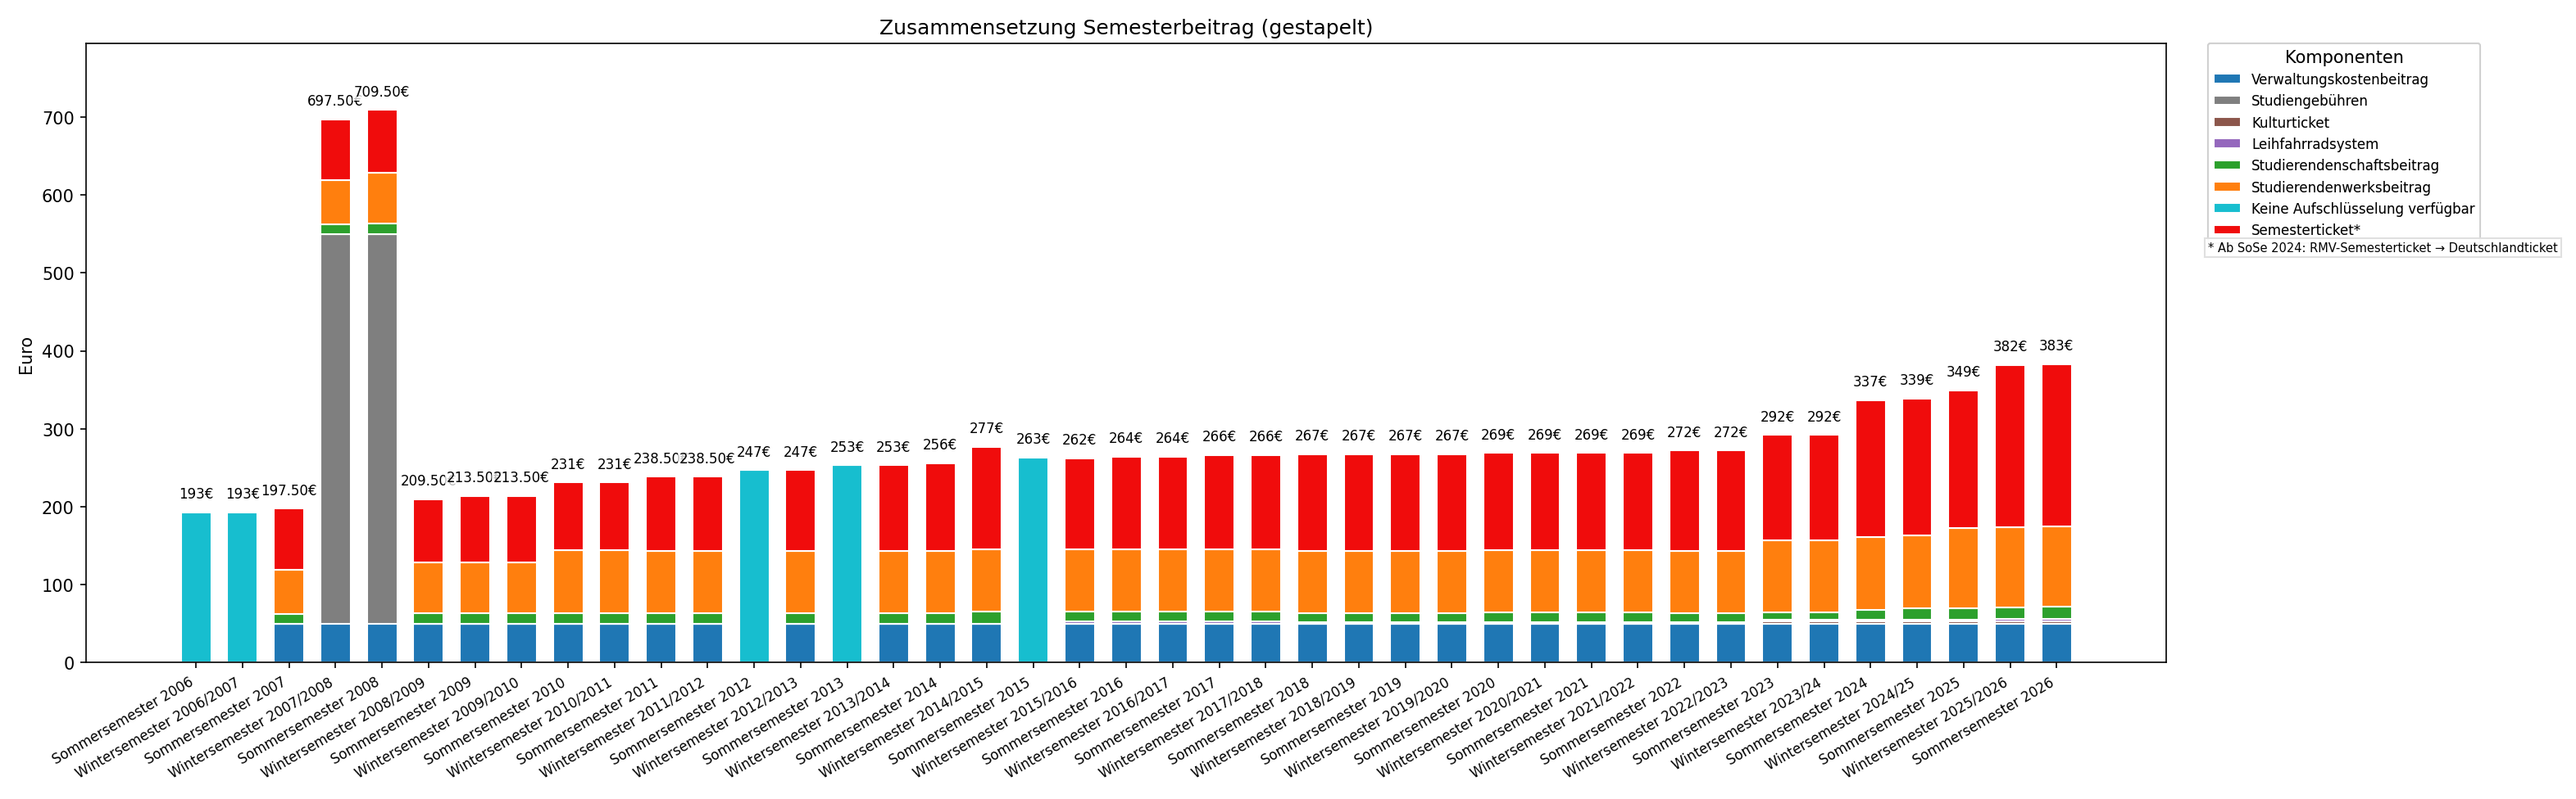
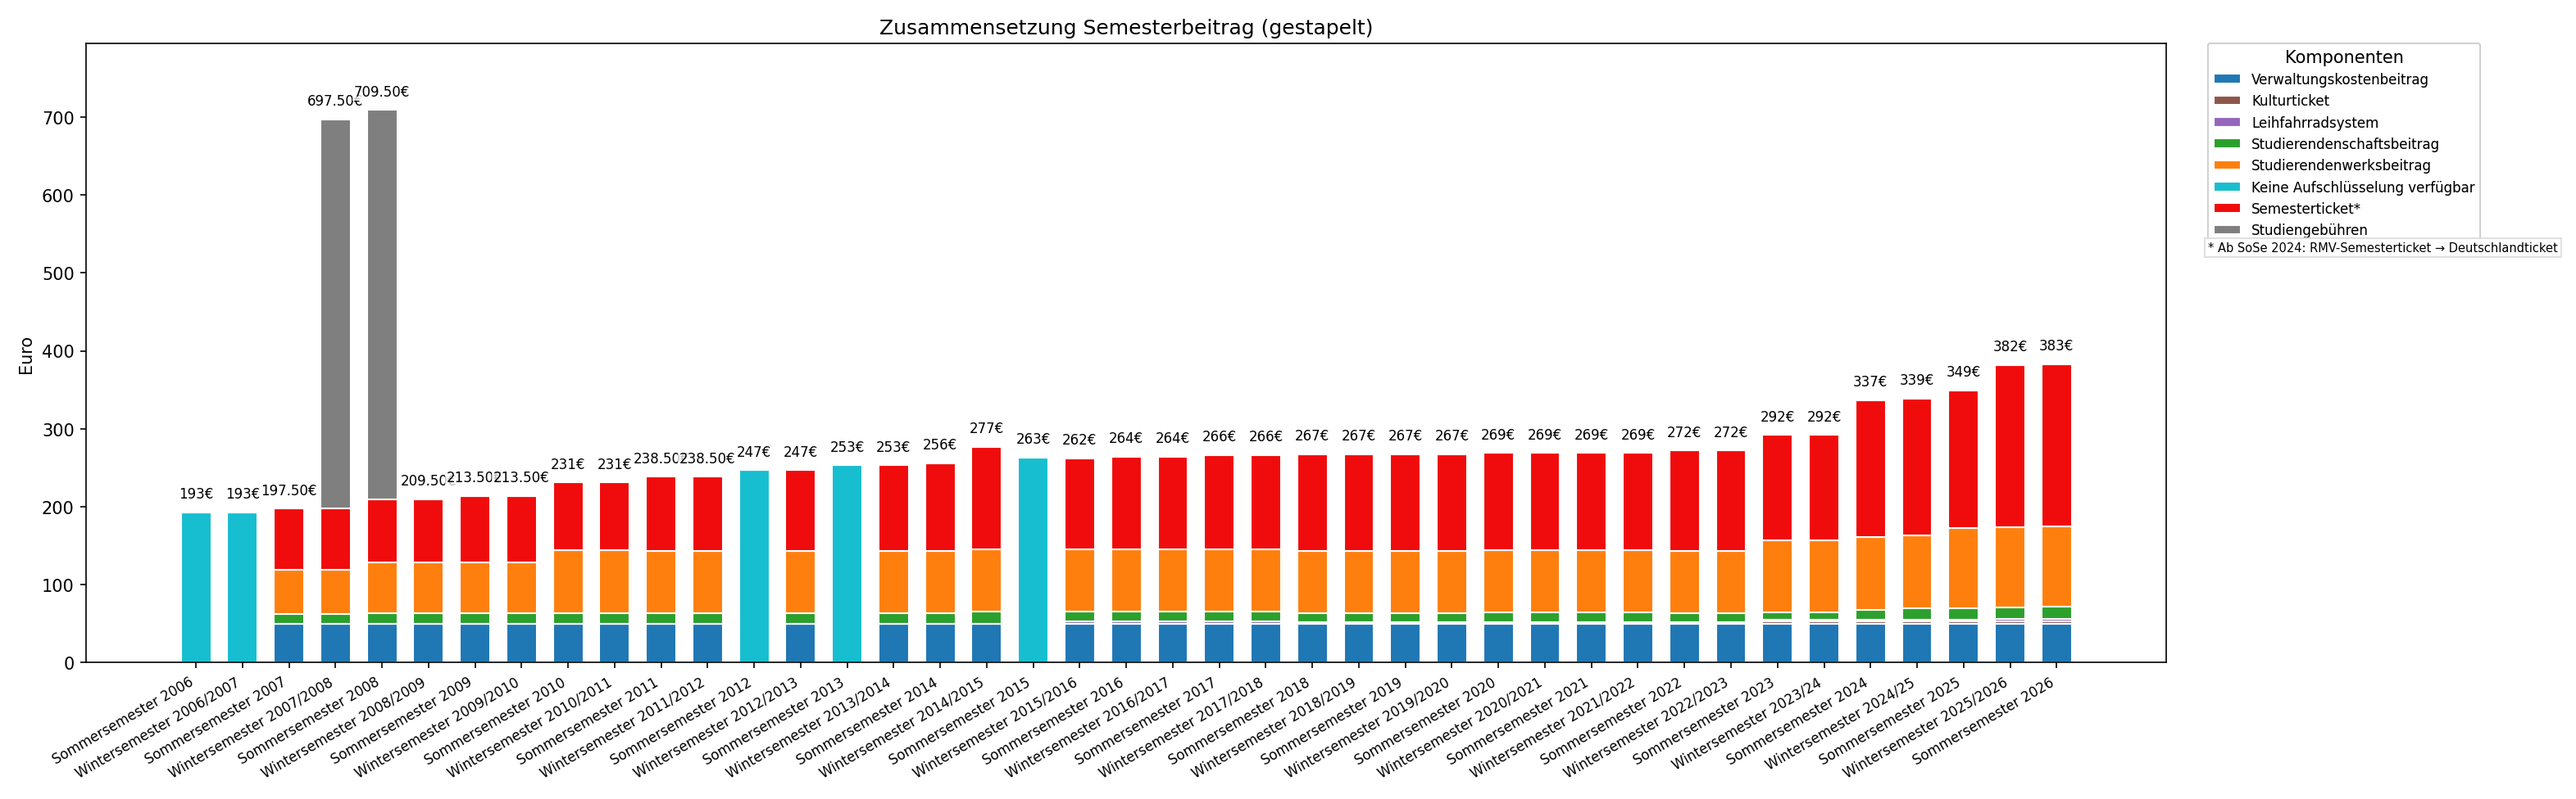
ensure "Studiengebühren" is displayed last in stacked plot components

Changed region(s): [[0.8419, 0.123, 0.9666, 0.3074], [0.1247, 0.6148, 0.1559, 0.7992], [0.1247, 0.123, 0.1559, 0.3074]]

diff --git a/generate_plot.py b/generate_plot.py
@@ -146,6 +146,11 @@ def build_table(entries):
     else:
         components_order = []
 
+    # Sicherstellen, dass "Studiengebühren" (falls vorhanden) zuletzt steht,
+    # damit diese Komponente im gestapelten Plot oben sichtbar ist.
+    if "Studiengebühren" in components_order:
+        components_order = [c for c in components_order if c != "Studiengebühren"] + ["Studiengebühren"]
+
     return labels, rows, components_order
 
 
